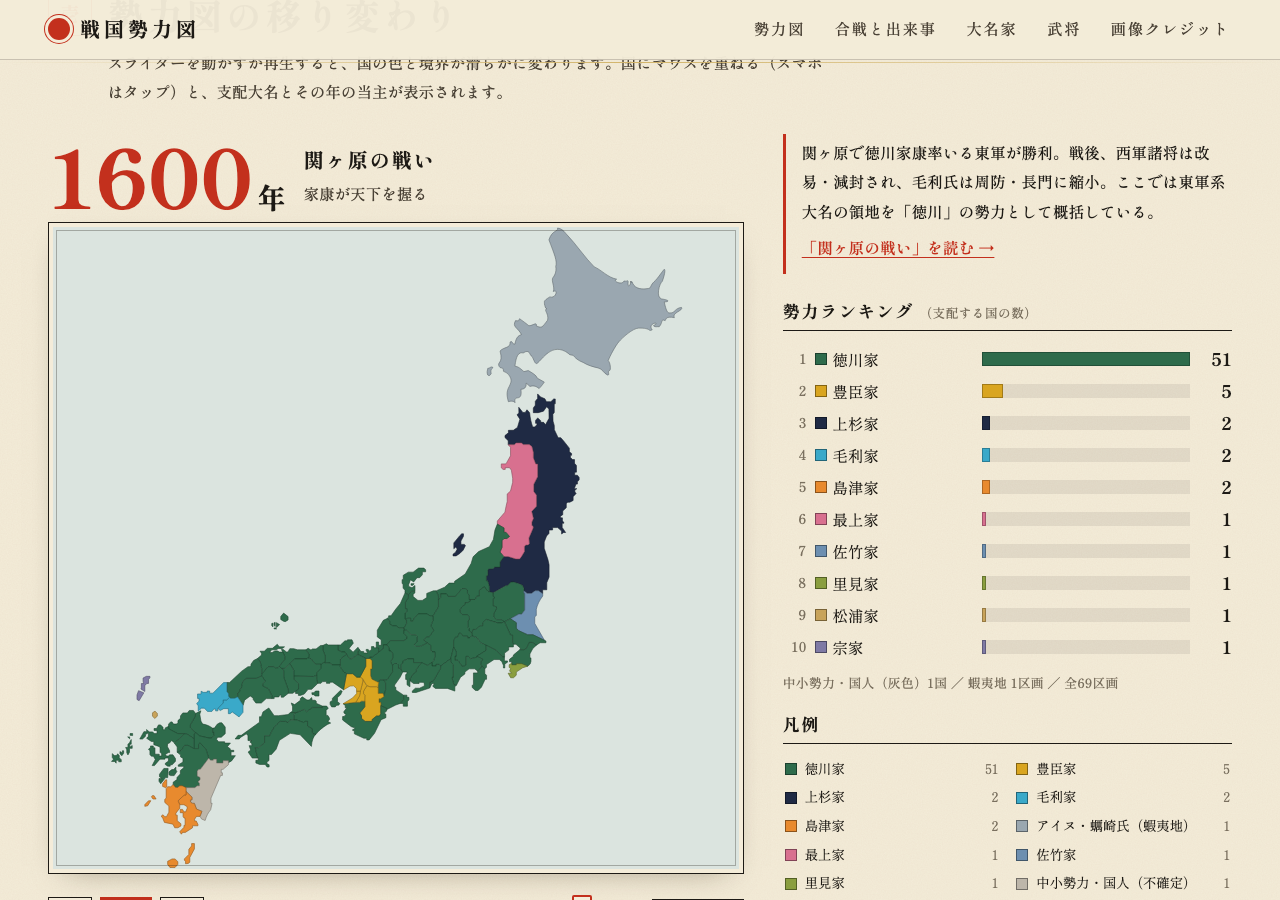
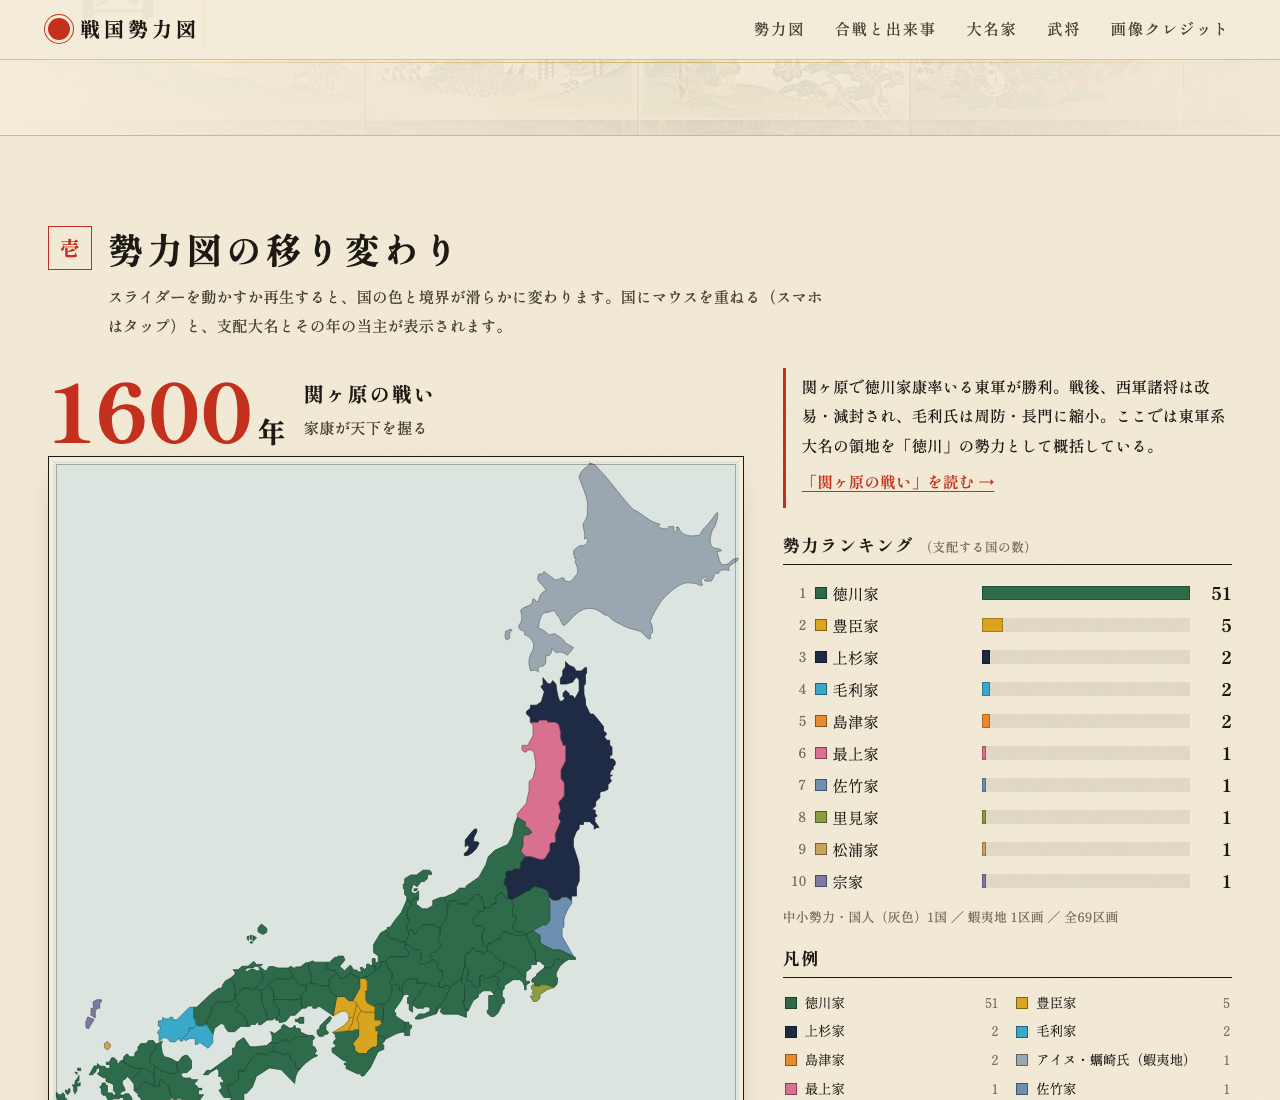
ストーリーの追従地図(デスクトップ)修正、肖像の目視確認と除外/差し替え、スクロール余白、e2e追加
Claude-Session: https://claude.ai/code/session_01NUP4jLBJau4WnMMgG2gKWG

diff --git a/data/images.js b/data/images.js
@@ -100,18 +100,18 @@ window.SENGOKU.images = {
  "event:kawanakajima": {
   "kind": "battle",
   "label": "第四次川中島の戦い",
-  "file": "Sengoku period battle.jpg",
-  "url": "https://upload.wikimedia.org/wikipedia/commons/a/a6/Sengoku_period_battle.jpg",
-  "w": 590,
-  "h": 828,
+  "file": "Uesugi Kenshin and Takeda Shingen at the Battle of Kawanakajima.jpg",
+  "url": "https://upload.wikimedia.org/wikipedia/commons/d/d5/Uesugi_Kenshin_and_Takeda_Shingen_at_the_Battle_of_Kawanakajima.jpg",
+  "w": 1408,
+  "h": 1500,
   "mime": "image/jpeg",
-  "artist": "Unknown authorUnknown author",
+  "artist": "Torii Kiyomasu",
   "license": "Public domain",
   "licenseUrl": "",
-  "filePage": "https://commons.wikimedia.org/wiki/File:Sengoku_period_battle.jpg",
+  "filePage": "https://commons.wikimedia.org/wiki/File:Uesugi_Kenshin_and_Takeda_Shingen_at_the_Battle_of_Kawanakajima.jpg",
   "article": "川中島の戦い",
   "articleUrl": "https://ja.wikipedia.org/wiki/%E5%B7%9D%E4%B8%AD%E5%B3%B6%E3%81%AE%E6%88%A6%E3%81%84",
-  "source": "P18"
+  "source": "override"
  },
  "event:komaki": {
   "kind": "battle",
@@ -511,22 +511,6 @@ window.SENGOKU.images = {
   "filePage": "https://commons.wikimedia.org/wiki/File:Japanese_crest_Sanngai_Hisi_ni_itutu_Kuginuki.svg",
   "article": "三好氏",
   "articleUrl": "https://ja.wikipedia.org/wiki/%E4%B8%89%E5%A5%BD%E6%B0%8F",
-  "source": "P94"
- },
- "mon:mogami": {
-  "kind": "mon",
-  "label": "最上家の家紋",
-  "file": "Ashikaga mon.svg",
-  "url": "https://upload.wikimedia.org/wikipedia/commons/6/62/Ashikaga_mon.svg",
-  "w": 200,
-  "h": 200,
-  "mime": "image/svg+xml",
-  "artist": "Ash Crow",
-  "license": "CC BY 2.5",
-  "licenseUrl": "https://creativecommons.org/licenses/by/2.5",
-  "filePage": "https://commons.wikimedia.org/wiki/File:Ashikaga_mon.svg",
-  "article": "最上氏",
-  "articleUrl": "https://ja.wikipedia.org/wiki/%E6%9C%80%E4%B8%8A%E6%B0%8F",
   "source": "P94"
  },
  "mon:mori": {
@@ -1169,22 +1153,6 @@ window.SENGOKU.images = {
   "articleUrl": "https://ja.wikipedia.org/wiki/%E4%BA%95%E4%BC%8A%E7%9B%B4%E6%94%BF",
   "source": "P18"
  },
- "person:imagawa-ujizane": {
-  "kind": "portrait",
-  "label": "今川氏真",
-  "file": "今川氏真像（個人像）.jpg",
-  "url": "https://upload.wikimedia.org/wikipedia/commons/8/83/%E4%BB%8A%E5%B7%9D%E6%B0%8F%E7%9C%9F%E5%83%8F%EF%BC%88%E5%80%8B%E4%BA%BA%E5%83%8F%EF%BC%89.jpg",
-  "w": 1323,
-  "h": 3354,
-  "mime": "image/jpeg",
-  "artist": "未詳。",
-  "license": "Public domain",
-  "licenseUrl": "",
-  "filePage": "https://commons.wikimedia.org/wiki/File:%E4%BB%8A%E5%B7%9D%E6%B0%8F%E7%9C%9F%E5%83%8F%EF%BC%88%E5%80%8B%E4%BA%BA%E5%83%8F%EF%BC%89.jpg",
-  "article": "今川氏真",
-  "articleUrl": "https://ja.wikipedia.org/wiki/%E4%BB%8A%E5%B7%9D%E6%B0%8F%E7%9C%9F",
-  "source": "P18"
- },
  "person:imagawa-yoshimoto": {
   "kind": "portrait",
   "label": "今川義元",
@@ -1697,22 +1665,6 @@ window.SENGOKU.images = {
   "articleUrl": "https://ja.wikipedia.org/wiki/%E5%B3%B6%E6%B4%A5%E7%BE%A9%E5%BC%98",
   "source": "P18"
  },
- "person:shimazu-yoshihisa": {
-  "kind": "portrait",
-  "label": "島津義久",
-  "file": "Yoshihisa shimadzu.jpg",
-  "url": "https://upload.wikimedia.org/wikipedia/commons/0/03/Yoshihisa_shimadzu.jpg",
-  "w": 351,
-  "h": 500,
-  "mime": "image/jpeg",
-  "artist": "Ginger1192",
-  "license": "CC BY-SA 3.0",
-  "licenseUrl": "https://creativecommons.org/licenses/by-sa/3.0",
-  "filePage": "https://commons.wikimedia.org/wiki/File:Yoshihisa_shimadzu.jpg",
-  "article": "島津義久",
-  "articleUrl": "https://ja.wikipedia.org/wiki/%E5%B3%B6%E6%B4%A5%E7%BE%A9%E4%B9%85",
-  "source": "P18"
- },
  "person:sue-harukata": {
   "kind": "portrait",
   "label": "陶晴賢",
@@ -1892,18 +1844,18 @@ window.SENGOKU.images = {
  "person:yamana-sozen": {
   "kind": "portrait",
   "label": "山名宗全",
-  "file": "山名持豊.jpg",
-  "url": "https://upload.wikimedia.org/wikipedia/commons/7/78/%E5%B1%B1%E5%90%8D%E6%8C%81%E8%B1%8A.jpg",
-  "w": 726,
-  "h": 970,
+  "file": "Dai Nihon Rokujūyoshō, Bingo Yamana Uemonnokami Mochitoyo Nyūdō Sōzen by Yoshitora.jpg",
+  "url": "https://upload.wikimedia.org/wikipedia/commons/2/25/Dai_Nihon_Rokuj%C5%AByosh%C5%8D%2C_Bingo_Yamana_Uemonnokami_Mochitoyo_Ny%C5%ABd%C5%8D_S%C5%8Dzen_by_Yoshitora.jpg",
+  "w": 1024,
+  "h": 1527,
   "mime": "image/jpeg",
-  "artist": "Musuketeer.3",
-  "license": "CC BY-SA 3.0",
-  "licenseUrl": "https://creativecommons.org/licenses/by-sa/3.0",
-  "filePage": "https://commons.wikimedia.org/wiki/File:%E5%B1%B1%E5%90%8D%E6%8C%81%E8%B1%8A.jpg",
+  "artist": "Utagawa Yoshitora",
+  "license": "Public domain",
+  "licenseUrl": "",
+  "filePage": "https://commons.wikimedia.org/wiki/File:Dai_Nihon_Rokuj%C5%AByosh%C5%8D,_Bingo_Yamana_Uemonnokami_Mochitoyo_Ny%C5%ABd%C5%8D_S%C5%8Dzen_by_Yoshitora.jpg",
   "article": "山名宗全",
   "articleUrl": "https://ja.wikipedia.org/wiki/%E5%B1%B1%E5%90%8D%E5%AE%97%E5%85%A8",
-  "source": "P18"
+  "source": "override"
  },
  "person:yamanaka-shikanosuke": {
   "kind": "portrait",

diff --git a/css/style.css b/css/style.css
@@ -19,6 +19,7 @@
 }
 *, *::before, *::after { box-sizing: border-box; }
 html { scroll-behavior: smooth; scroll-padding-top: 64px; }
+section[id], .ev-card { scroll-margin-top: 72px; }
 html, body, button, input, select, textarea, svg text, svg tspan { font-family: var(--mincho); }
 body {
   margin: 0; color: var(--ink); background-color: var(--paper);
@@ -57,6 +58,7 @@ small { font-size: .82em; }
   .site-nav { gap: 11px; justify-content: flex-start; flex-wrap: nowrap; white-space: nowrap; }
   .site-nav a { font-size: .78rem; letter-spacing: 0; }
   html { scroll-padding-top: 84px; }
+  section[id], .ev-card { scroll-margin-top: 92px; }
   .brand-name { font-size: 1.1rem; }
 }
 
@@ -139,6 +141,7 @@ small { font-size: .82em; }
 .tick { position: absolute; transform: translateX(-50%); background: none; border: 0; padding: 0; cursor: pointer; pointer-events: auto; color: var(--ink-3); display: flex; flex-direction: column; align-items: center; min-width: 14px; min-height: 22px; }
 .tick i { width: 1px; height: 7px; background: currentColor; display: block; }
 .tick span { font-size: .72rem; margin-top: 1px; font-variant-numeric: tabular-nums; letter-spacing: 0; }
+.tick.lab:nth-last-child(2) span { display: none; }
 .tick.on { color: var(--vermilion); }
 .tick.on i { height: 10px; width: 2px; }
 .speed { display: flex; align-items: center; gap: 6px; font-size: .85rem; color: var(--ink-2); }
@@ -195,7 +198,10 @@ small { font-size: .82em; }
 
 /* ---- ストーリー ---- */
 .story { display: grid; grid-template-columns: minmax(300px, .9fr) minmax(0, 1.1fr); gap: clamp(20px, 4vw, 56px); align-items: start; }
+.story-map-col { align-self: stretch; }
 .story-map-sticky { position: sticky; top: 76px; }
+.story-map-sticky .jp-map { max-height: calc(100vh - 230px); margin: 0 auto; }
+.credit.note { color: var(--vermilion); }
 .story-year { font-family: var(--head); font-size: 1.4rem; margin-bottom: 8px; }
 .story-year span { font-size: 2.6rem; font-weight: 800; color: var(--vermilion); font-variant-numeric: tabular-nums; }
 .legend-mini { grid-template-columns: 1fr 1fr 1fr; margin-top: 10px; font-size: .8rem; }
@@ -250,7 +256,7 @@ small { font-size: .82em; }
 .people-grid { display: grid; grid-template-columns: repeat(auto-fill, minmax(150px, 1fr)); gap: 18px 16px; }
 .person-card { display: flex; flex-direction: column; text-decoration: none; color: var(--ink); border-bottom: 3px solid var(--c); padding-bottom: 8px; }
 .pc-img { aspect-ratio: 3 / 4; background: var(--paper-3); border: 1px solid var(--ink); overflow: hidden; margin-bottom: 8px; }
-.pc-img img { width: 100%; height: 100%; object-fit: cover; object-position: top; transition: transform .5s; }
+.pc-img img { width: 100%; height: 100%; object-fit: cover; object-position: 50% 62%; transition: transform .5s; }
 .person-card:hover .pc-img img { transform: scale(1.06); }
 .person-card b { font-family: var(--head); font-size: 1.05rem; letter-spacing: .06em; }
 .person-card span { font-size: .8rem; color: var(--ink-3); }
@@ -299,7 +305,7 @@ body.sheet-open { overflow: hidden; }
 .faces { display: flex; gap: 14px; overflow-x: auto; padding-bottom: 8px; scroll-snap-type: x proximity; }
 .face-card { flex: none; width: 112px; text-decoration: none; color: var(--ink); display: flex; flex-direction: column; scroll-snap-align: start; }
 .face-img { width: 112px; height: 140px; border: 1px solid var(--ink); background: var(--paper-3); overflow: hidden; margin-bottom: 6px; }
-.face-img img { width: 100%; height: 100%; object-fit: cover; object-position: top; }
+.face-img img { width: 100%; height: 100%; object-fit: cover; object-position: 50% 62%; }
 .face-card b { font-family: var(--head); font-size: .95rem; line-height: 1.4; }
 .face-card span { font-size: .72rem; color: var(--ink-3); line-height: 1.4; }
 .face-card:hover b { color: var(--vermilion); }

diff --git a/data/events.js b/data/events.js
@@ -26,7 +26,7 @@ window.SENGOKU.events = [
     text: '京都の本能寺に滞在中の織田信長を、重臣の明智光秀が襲撃。信長・信忠父子は自害した。備中高松城から急ぎ戻った羽柴秀吉が山崎の戦いで光秀を倒し、織田政権の主導権を握る。' },
   { id: 'komaki', year: 1584, snapshot: 1584, date: '1584年（天正12年）', title: '小牧・長久手の戦い', wiki: '小牧・長久手の戦い', people: ['toyotomi-hideyoshi', 'tokugawa-ieyasu', 'oda-nobukatsu'], clans: ['toyotomi', 'tokugawa', 'oda'],
     text: '織田信雄・徳川家康が羽柴秀吉と尾張北部で対峙。家康は長久手で局地戦に勝ったが、秀吉は信雄との単独講和で大義を失わせた。家康は後に秀吉に臣従する。' },
-  { id: 'kyushu', year: 1587, snapshot: 1587, date: '1587年（天正15年）', title: '九州平定', wiki: '九州平定', people: ['toyotomi-hideyoshi', 'shimazu-yoshihisa', 'otomo-sorin'], clans: ['toyotomi', 'shimazu', 'otomo'],
+  { id: 'kyushu', year: 1587, snapshot: 1587, date: '1587年（天正15年）', title: '九州平定', wiki: '九州平定', imgNote: '図版は九州地方の地図です。九州平定そのものを描いた絵ではなく、代替の図版です。', people: ['toyotomi-hideyoshi', 'shimazu-yoshihisa', 'otomo-sorin'], clans: ['toyotomi', 'shimazu', 'otomo'],
     text: '島津氏の北上で苦境に陥った大友宗麟が秀吉に救援を求め、秀吉は約20万の大軍で九州へ出兵。島津義久は降伏し、薩摩・大隅などの領有を許された。' },
   { id: 'odawara', year: 1590, snapshot: 1590, date: '1590年（天正18年）', title: '小田原征伐', wiki: '小田原征伐', people: ['toyotomi-hideyoshi', 'hojo-ujimasa', 'date-masamune', 'tokugawa-ieyasu'], clans: ['toyotomi', 'hojo', 'date', 'tokugawa'],
     text: '豊臣秀吉が約20万の大軍で小田原城を包囲。北条氏は降伏し、氏政は切腹した。伊達政宗らも秀吉に服属し、天下統一が完成。家康は関東に移封される。' },

diff --git a/js/story.js b/js/story.js
@@ -29,7 +29,7 @@
     };
     SG.S.events.forEach((e, i) => {
       const key = 'event:' + e.id;
-      const fig = SG.el('figure', { class: 'ev-fig' }, SG.el('div', { class: 'ev-img' }, SG.img(key, { w: 960, alt: e.title })), credit(key));
+      const fig = SG.el('figure', { class: 'ev-fig' }, SG.el('div', { class: 'ev-img' }, SG.img(key, { w: 960, alt: e.title })), credit(key), e.imgNote ? SG.el('figcaption', { class: 'credit note' }, '※ ' + e.imgNote) : null);
       const faces = SG.el('div', { class: 'ev-faces' }, e.people.map((pid) => { const p = SG.personById[pid]; return p ? SG.el('a', { class: 'mini-face', href: '#/person/' + pid, title: p.name }, SG.img('person:' + pid, { w: 120, alt: p.name }), SG.el('span', null, p.name)) : null; }));
       const clans = SG.el('p', { class: 'ev-clans' }, e.clans.map((cid) => { const c = SG.clanById[cid]; return c.detail ? SG.el('a', { class: 'clan-chip', href: '#/clan/' + cid }, SG.el('i', { class: 'chip', style: `background:${c.color}` }), c.name) : null; }));
       const li = SG.el('li', { class: 'ev-card', id: 'ev-' + e.id, 'data-snap': e.snapshot, 'data-year': e.year },

diff --git a/CREDITS.md b/CREDITS.md
@@ -11,7 +11,7 @@
 画像は upload.wikimedia.org からホットリンクしており、リポジトリにはコピーを置いていません。許可ライセンスは PD・CC0・CC BY・CC BY-SA のみです。
 サイト内「画像クレジット」ページにも同じ一覧があります。
 
-### 人物の肖像（68点）
+### 人物の肖像（66点）
 
 | 対象 | ファイル | 作者 | ライセンス | 取得元 |
 |---|---|---|---|---|
@@ -36,7 +36,6 @@
 | 細川勝元 (person:hosokawa-katsumoto) | [Hosokawa Katsumoto.jpg](https://commons.wikimedia.org/wiki/File:Hosokawa_Katsumoto.jpg) | Unknown | Public domain | P18 / [細川勝元](https://ja.wikipedia.org/wiki/%E7%B4%B0%E5%B7%9D%E5%8B%9D%E5%85%83) |
 | 細川政元 (person:hosokawa-masamoto) | [Hosokawa Masamoto.jpg](https://commons.wikimedia.org/wiki/File:Hosokawa_Masamoto.jpg) | Morita Ekishin | Public domain | P18 / [細川政元](https://ja.wikipedia.org/wiki/%E7%B4%B0%E5%B7%9D%E6%94%BF%E5%85%83) |
 | 井伊直政 (person:ii-naomasa) | [Ii Naomasa.jpg](https://commons.wikimedia.org/wiki/File:Ii_Naomasa.jpg) | Unknown authorUnknown author | Public domain | P18 / [井伊直政](https://ja.wikipedia.org/wiki/%E4%BA%95%E4%BC%8A%E7%9B%B4%E6%94%BF) |
-| 今川氏真 (person:imagawa-ujizane) | [今川氏真像（個人像）.jpg](https://commons.wikimedia.org/wiki/File:%E4%BB%8A%E5%B7%9D%E6%B0%8F%E7%9C%9F%E5%83%8F%EF%BC%88%E5%80%8B%E4%BA%BA%E5%83%8F%EF%BC%89.jpg) | 未詳。 | Public domain | P18 / [今川氏真](https://ja.wikipedia.org/wiki/%E4%BB%8A%E5%B7%9D%E6%B0%8F%E7%9C%9F) |
 | 今川義元 (person:imagawa-yoshimoto) | [Imagawa-Yoshimoto-Ukiyo-e.jpg](https://commons.wikimedia.org/wiki/File:Imagawa-Yoshimoto-Ukiyo-e.jpg) | Utagawa Kuniyoshi | Public domain | P18 / [今川義元](https://ja.wikipedia.org/wiki/%E4%BB%8A%E5%B7%9D%E7%BE%A9%E5%85%83) |
 | 石田三成 (person:ishida-mitsunari) | [Ishida Mitsunari.jpg](https://commons.wikimedia.org/wiki/File:Ishida_Mitsunari.jpg) | Unknown authorUnknown author | Public domain | P18 / [石田三成](https://ja.wikipedia.org/wiki/%E7%9F%B3%E7%94%B0%E4%B8%89%E6%88%90) |
 | 加藤清正 (person:kato-kiyomasa) | [Katō Kiyomasa.jpg](https://commons.wikimedia.org/wiki/File:Kat%C5%8D_Kiyomasa.jpg) | Unknown authorUnknown author | Public domain | P18 / [加藤清正](https://ja.wikipedia.org/wiki/%E5%8A%A0%E8%97%A4%E6%B8%85%E6%AD%A3) |
@@ -69,7 +68,6 @@
 | 柴田勝家 (person:shibata-katsuie) | [Shibata katsuie.png](https://commons.wikimedia.org/wiki/File:Shibata_katsuie.png) | Unknown authorUnknown author | Public domain | P18 / [柴田勝家](https://ja.wikipedia.org/wiki/%E6%9F%B4%E7%94%B0%E5%8B%9D%E5%AE%B6) |
 | 島津貴久 (person:shimazu-takahisa) | [Shimazu Takahisa.jpg](https://commons.wikimedia.org/wiki/File:Shimazu_Takahisa.jpg) | Unknown authorUnknown author | Public domain | P18 / [島津貴久](https://ja.wikipedia.org/wiki/%E5%B3%B6%E6%B4%A5%E8%B2%B4%E4%B9%85) |
 | 島津義弘 (person:shimazu-yoshihiro) | [Shimazu Yoshihiro.jpg](https://commons.wikimedia.org/wiki/File:Shimazu_Yoshihiro.jpg) | 不明。 | Public domain | P18 / [島津義弘](https://ja.wikipedia.org/wiki/%E5%B3%B6%E6%B4%A5%E7%BE%A9%E5%BC%98) |
-| 島津義久 (person:shimazu-yoshihisa) | [Yoshihisa shimadzu.jpg](https://commons.wikimedia.org/wiki/File:Yoshihisa_shimadzu.jpg) | Ginger1192 | CC BY-SA 3.0 | P18 / [島津義久](https://ja.wikipedia.org/wiki/%E5%B3%B6%E6%B4%A5%E7%BE%A9%E4%B9%85) |
 | 陶晴賢 (person:sue-harukata) | [Sue Harukata by Zoku Eiyu Hyakunin Isshu.jpg](https://commons.wikimedia.org/wiki/File:Sue_Harukata_by_Zoku_Eiyu_Hyakunin_Isshu.jpg) | 緑亭川柳輯・前北斎卍老人 他 | Public domain | P18 / [陶晴賢](https://ja.wikipedia.org/wiki/%E9%99%B6%E6%99%B4%E8%B3%A2) |
 | 武田勝頼 (person:takeda-katsuyori) | [Takeda Katsuyori.jpg](https://commons.wikimedia.org/wiki/File:Takeda_Katsuyori.jpg) | Unknown authorUnknown author | Public domain | P18 / [武田勝頼](https://ja.wikipedia.org/wiki/%E6%AD%A6%E7%94%B0%E5%8B%9D%E9%A0%BC) |
 | 武田信虎 (person:takeda-nobutora) | [Takeda Nobutora by Takeda Nobukado (Daisenji Kofu).jpg](https://commons.wikimedia.org/wiki/File:Takeda_Nobutora_by_Takeda_Nobukado_(Daisenji_Kofu).jpg) | Takeda Nobukado | Public domain | P18 / [武田信虎](https://ja.wikipedia.org/wiki/%E6%AD%A6%E7%94%B0%E4%BF%A1%E8%99%8E) |
@@ -81,10 +79,10 @@
 | 豊臣秀吉 (person:toyotomi-hideyoshi) | [Toyotomi Hideyoshi (Kodaiji).jpg](https://commons.wikimedia.org/wiki/File:Toyotomi_Hideyoshi_(Kodaiji).jpg) | Kanō Mitsunobu | Public domain | P18 / [豊臣秀吉](https://ja.wikipedia.org/wiki/%E8%B1%8A%E8%87%A3%E7%A7%80%E5%90%89) |
 | 上杉景勝 (person:uesugi-kagekatsu) | [Uesugi Kagekatsu Portrait Yonezawa City Uesugi Museum.png](https://commons.wikimedia.org/wiki/File:Uesugi_Kagekatsu_Portrait_Yonezawa_City_Uesugi_Museum.png) | Unknown authorUnknown author | Public domain | P18 / [上杉景勝](https://ja.wikipedia.org/wiki/%E4%B8%8A%E6%9D%89%E6%99%AF%E5%8B%9D) |
 | 上杉謙信 (person:uesugi-kenshin) | [Uesugi Kenshin Portrait from Uesugi Shrine.png](https://commons.wikimedia.org/wiki/File:Uesugi_Kenshin_Portrait_from_Uesugi_Shrine.png) | Unknown authorUnknown author | Public domain | P18 / [上杉謙信](https://ja.wikipedia.org/wiki/%E4%B8%8A%E6%9D%89%E8%AC%99%E4%BF%A1) |
-| 山名宗全 (person:yamana-sozen) | [山名持豊.jpg](https://commons.wikimedia.org/wiki/File:%E5%B1%B1%E5%90%8D%E6%8C%81%E8%B1%8A.jpg) | Musuketeer.3 | CC BY-SA 3.0 | P18 / [山名宗全](https://ja.wikipedia.org/wiki/%E5%B1%B1%E5%90%8D%E5%AE%97%E5%85%A8) |
+| 山名宗全 (person:yamana-sozen) | [Dai Nihon Rokujūyoshō, Bingo Yamana Uemonnokami Mochitoyo Nyūdō Sōzen by Yoshitora.jpg](https://commons.wikimedia.org/wiki/File:Dai_Nihon_Rokuj%C5%AByosh%C5%8D,_Bingo_Yamana_Uemonnokami_Mochitoyo_Ny%C5%ABd%C5%8D_S%C5%8Dzen_by_Yoshitora.jpg) | Utagawa Yoshitora | Public domain | override / [山名宗全](https://ja.wikipedia.org/wiki/%E5%B1%B1%E5%90%8D%E5%AE%97%E5%85%A8) |
 | 山中鹿介 (person:yamanaka-shikanosuke) | [Taiheikieiyuden 36 YamanakaYukimori.jpg](https://commons.wikimedia.org/wiki/File:Taiheikieiyuden_36_YamanakaYukimori.jpg) | 落合芳幾 | Public domain | P18 / [山中幸盛](https://ja.wikipedia.org/wiki/%E5%B1%B1%E4%B8%AD%E5%B9%B8%E7%9B%9B) |
 
-### 家紋（36点）
+### 家紋（35点）
 
 | 対象 | ファイル | 作者 | ライセンス | 取得元 |
 |---|---|---|---|---|
@@ -104,7 +102,6 @@
 | 菊池家の家紋 (mon:kikuchi) | [Japanese crest narabi Takanoha.svg](https://commons.wikimedia.org/wiki/File:Japanese_crest_narabi_Takanoha.svg) | Mukai | CC BY-SA 3.0 | P94 / [菊池氏](https://ja.wikipedia.org/wiki/%E8%8F%8A%E6%B1%A0%E6%B0%8F) |
 | 松浦家の家紋 (mon:matsura) | [Japanese Crest Matsura mitu Hosi.svg](https://commons.wikimedia.org/wiki/File:Japanese_Crest_Matsura_mitu_Hosi.svg) | user:Mukai | CC BY-SA 3.0 | P94 / [松浦氏](https://ja.wikipedia.org/wiki/%E6%9D%BE%E6%B5%A6%E6%B0%8F) |
 | 三好家の家紋 (mon:miyoshi) | [Japanese crest Sanngai Hisi ni itutu Kuginuki.svg](https://commons.wikimedia.org/wiki/File:Japanese_crest_Sanngai_Hisi_ni_itutu_Kuginuki.svg) | Mukai | CC BY-SA 3.0 | P94 / [三好氏](https://ja.wikipedia.org/wiki/%E4%B8%89%E5%A5%BD%E6%B0%8F) |
-| 最上家の家紋 (mon:mogami) | [Ashikaga mon.svg](https://commons.wikimedia.org/wiki/File:Ashikaga_mon.svg) | Ash Crow | CC BY 2.5 | P94 / [最上氏](https://ja.wikipedia.org/wiki/%E6%9C%80%E4%B8%8A%E6%B0%8F) |
 | 毛利家の家紋 (mon:mori) | [Alex K Hiroshima Mori (color).svg](https://commons.wikimedia.org/wiki/File:Alex_K_Hiroshima_Mori_(color).svg) | Alex Tora | CC BY-SA 3.0 | P94 / [毛利氏](https://ja.wikipedia.org/wiki/%E6%AF%9B%E5%88%A9%E6%B0%8F) |
 | 織田家の家紋 (mon:oda) | [Oda emblem.svg](https://commons.wikimedia.org/wiki/File:Oda_emblem.svg) | No machine-readable author provided. Gilyellows assumed (based on copyright clai | CC BY-SA 3.0 | P94 / [織田氏](https://ja.wikipedia.org/wiki/%E7%B9%94%E7%94%B0%E6%B0%8F) |
 | 大友家の家紋 (mon:otomo) | [Japanese Crest Daki hana Gyouyou.svg](https://commons.wikimedia.org/wiki/File:Japanese_Crest_Daki_hana_Gyouyou.svg) | Mukai | CC BY-SA 3.0 | P94 / [大友氏](https://ja.wikipedia.org/wiki/%E5%A4%A7%E5%8F%8B%E6%B0%8F) |
@@ -135,7 +132,7 @@
 | 朝倉・浅井の滅亡と室町幕府の終わり (event:ichijodani) | [Asakura Yakata of Ichijodani Asakura Family Historic Ruins02s3s4440.jpg](https://commons.wikimedia.org/wiki/File:Asakura_Yakata_of_Ichijodani_Asakura_Family_Historic_Ruins02s3s4440.jpg) | 663highland | CC BY 2.5 | lead / [一乗谷朝倉氏遺跡](https://ja.wikipedia.org/wiki/%E4%B8%80%E4%B9%97%E8%B0%B7%E6%9C%9D%E5%80%89%E6%B0%8F%E9%81%BA%E8%B7%A1) |
 | 厳島の戦い (event:itsukushima) | [ItsukushimaTorii7396.jpg](https://commons.wikimedia.org/wiki/File:ItsukushimaTorii7396.jpg) | 不明 | Public domain | lead / [厳島の戦い](https://ja.wikipedia.org/wiki/%E5%8E%B3%E5%B3%B6%E3%81%AE%E6%88%A6%E3%81%84) |
 | 河越夜戦 (event:kawagoe) | [東明寺 川越夜戦碑.jpg](https://commons.wikimedia.org/wiki/File:%E6%9D%B1%E6%98%8E%E5%AF%BA_%E5%B7%9D%E8%B6%8A%E5%A4%9C%E6%88%A6%E7%A2%91.jpg) | Uk4192 | CC BY-SA 4.0 | lead / [河越城の戦い](https://ja.wikipedia.org/wiki/%E6%B2%B3%E8%B6%8A%E5%9F%8E%E3%81%AE%E6%88%A6%E3%81%84) |
-| 第四次川中島の戦い (event:kawanakajima) | [Sengoku period battle.jpg](https://commons.wikimedia.org/wiki/File:Sengoku_period_battle.jpg) | Unknown authorUnknown author | Public domain | P18 / [川中島の戦い](https://ja.wikipedia.org/wiki/%E5%B7%9D%E4%B8%AD%E5%B3%B6%E3%81%AE%E6%88%A6%E3%81%84) |
+| 第四次川中島の戦い (event:kawanakajima) | [Uesugi Kenshin and Takeda Shingen at the Battle of Kawanakajima.jpg](https://commons.wikimedia.org/wiki/File:Uesugi_Kenshin_and_Takeda_Shingen_at_the_Battle_of_Kawanakajima.jpg) | Torii Kiyomasu | Public domain | override / [川中島の戦い](https://ja.wikipedia.org/wiki/%E5%B7%9D%E4%B8%AD%E5%B3%B6%E3%81%AE%E6%88%A6%E3%81%84) |
 | 小牧・長久手の戦い (event:komaki) | [Komaki Nagakute Kassen Zu Byoubu, Toyota.jpg](https://commons.wikimedia.org/wiki/File:Komaki_Nagakute_Kassen_Zu_Byoubu,_Toyota.jpg) | 不詳 | Public domain | lead / [小牧・長久手の戦い](https://ja.wikipedia.org/wiki/%E5%B0%8F%E7%89%A7%E3%83%BB%E9%95%B7%E4%B9%85%E6%89%8B%E3%81%AE%E6%88%A6%E3%81%84) |
 | 九州平定 (event:kyushu) | [Japan Kyushu Kagoshima.png](https://commons.wikimedia.org/wiki/File:Japan_Kyushu_Kagoshima.png) | No machine-readable author provided. Akanemoto~commonswiki assumed (based on cop | Public domain | P18 / [九州平定](https://ja.wikipedia.org/wiki/%E4%B9%9D%E5%B7%9E%E5%B9%B3%E5%AE%9A) |
 | 明応の政変 (event:meio) | [Ashikaga Yoshitane statue.jpg](https://commons.wikimedia.org/wiki/File:Ashikaga_Yoshitane_statue.jpg) | 不明 | Public domain | article-image / [明応の政変](https://ja.wikipedia.org/wiki/%E6%98%8E%E5%BF%9C%E3%81%AE%E6%94%BF%E5%A4%89) |
